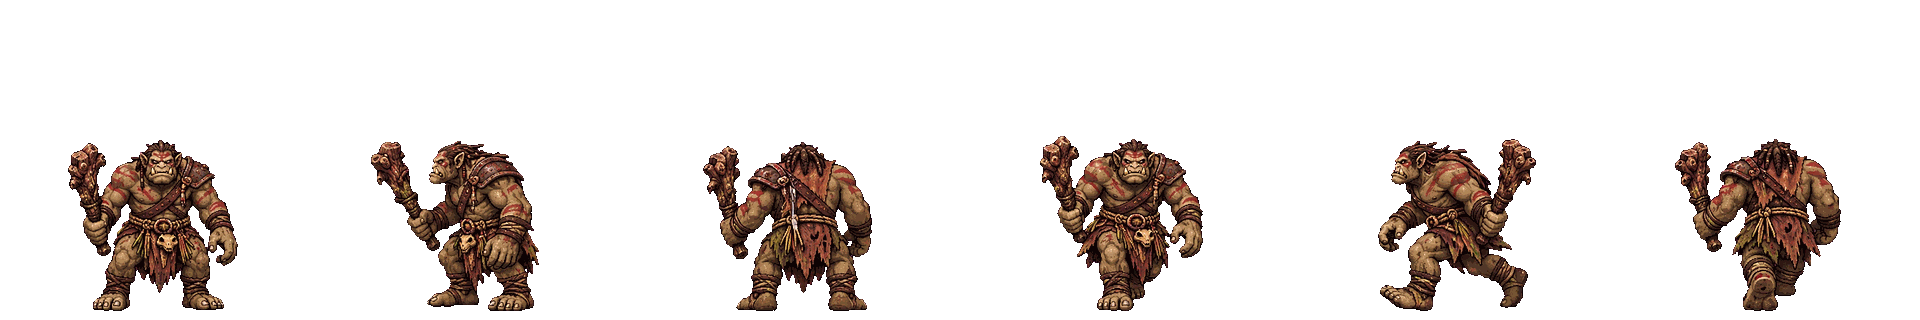
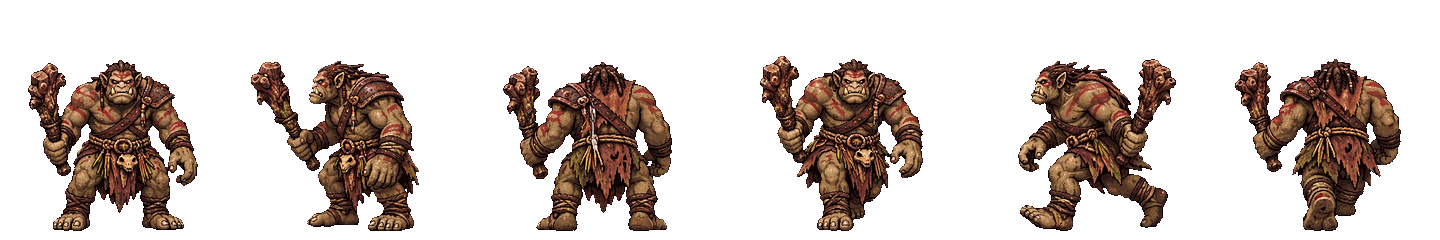
Corrige o jogo fechando no Pântano do Kosaradius: arte do clã 5 vezes mais leve na memória
O jogo prepara a folha de todo monstro da arte nova ao abrir, e cada quadro fica na memória do celular. Os 12 do clã
tinham 32 quadros de 256–512 px cada (~156 MB) e o celular fechava o jogo.

- hdStep (textures.ts) guarda cada figura uma vez: quadros que repetem a mesma função de hd() apontam para ela.
- kosaradiusArt.ts devolve a mesma função para a mesma figura e deslocamento e usa poucas variações nos clipes
  (11 figuras por monstro, 14 no Rei).
- kosaradiusSprites.py: o quadro é o menor que cabe a figura com a folga do bote.

Os 12 passam a ~28 MB (medido no navegador com o código do jogo).

Claude-Session: https://claude.ai/code/session_017wBqbLW2E9gmPiXigBH63t

diff --git a/apps/client/src/art/proto/kosaradiusArt.ts b/apps/client/src/art/proto/kosaradiusArt.ts
@@ -52,14 +52,24 @@ async function loadOne(kind: MonsterKind, url: string): Promise<ClanArt> {
   img.src = url;
   await img.decode();
   const s = img.height;
-  const at = (i: number, o: Parameters<typeof figure>[3] = {}) => () => figure(img, s, i, o);
-  const breath = [0, 0.012, 0.024, 0.012];
-  const breathing = (i: number) => breath.map((b) => at(i, { breathe: b }));
+  // Cada figura (com o deslocamento) é uma função só, reaproveitada nos clipes: o jogo guarda cada uma uma vez na
+  // memória (`hdStep` em `textures.ts`). Com uma figura por quadro, os 12 do clã passavam de 150 MB e o celular fechava
+  // o jogo. Por isso os clipes usam poucas variações.
+  const made = new Map<string, () => HTMLCanvasElement>();
+  const at = (i: number, o: Parameters<typeof figure>[3] = {}) => {
+    const key = `${i}:${o.dx ?? 0}:${o.dy ?? 0}:${o.breathe ?? 0}`;
+    let job = made.get(key);
+    if (!job) made.set(key, job = () => figure(img, s, i, o));
+    return job;
+  };
+  // Fôlego: o corpo encolhe um pouco e volta.
+  const breathing = (i: number) => [at(i), at(i, { breathe: 0.02 }), at(i, { breathe: 0.02 }), at(i)];
   // A folha tem um passo por vista: entre um e outro, o corpo parado um pouco acima. Não espelha (a arma trocaria de mão).
+  // Quem anda só com a figura de andar (o Rei) sobe e desce com ela.
   const walkOnly = WALK_POSE_ONLY.has(kind);
   const steps = (still: number, walk: number) => {
-    const mid = walkOnly ? walk : still;
-    return [at(walk), at(mid, { dy: -3 }), at(walk, { dy: -1 }), at(mid, { dy: -3 })];
+    const mid = walkOnly ? at(walk, { dy: -3 }) : at(still);
+    return [at(walk), mid, at(walk), mid];
   };
   // Parte de cima do quadro ocupada pelo perfil parado (a barra de vida fica logo acima).
   const { ctx } = makeCanvas(s, s);
@@ -74,10 +84,10 @@ async function loadOne(kind: MonsterKind, url: string): Promise<ClanArt> {
     frames: () => [
       ...breathing(F.side),
       ...steps(F.side, F.sideWalk),
-      // Golpe: recua um pouco, avança com a passada e volta (o bote do sprite vem do jogo).
-      at(F.side, { dx: 4, dy: 1 }), at(F.sideWalk, { dx: -6 }), at(F.sideWalk, { dx: -8 }), at(F.side, { dx: -2 }),
-      // Especial: o corpo se ergue e volta, com o fôlego fundo.
-      at(F.side, { breathe: -0.02 }), at(F.side, { breathe: -0.035, dy: -2 }), at(F.side, { breathe: -0.035, dy: -2 }), at(F.side, { breathe: 0.02 }),
+      // Golpe: avança com a passada e volta (o bote do sprite vem do jogo).
+      at(F.side), at(F.sideWalk, { dx: -8 }), at(F.sideWalk, { dx: -8 }), at(F.side),
+      // Especial: o corpo se ergue e volta.
+      at(F.side), at(F.side, { breathe: -0.035, dy: -2 }), at(F.side, { breathe: -0.035, dy: -2 }), at(F.side),
       ...breathing(F.front),
       ...steps(F.front, F.frontWalk),
       ...breathing(F.back),

diff --git a/apps/client/src/art/textures.ts b/apps/client/src/art/textures.ts
@@ -138,20 +138,28 @@ export function createCreatureArt(scene: Phaser.Scene) {
 }
 
 /** Folha animada: cada quadro é refinado à parte (o contorno não vaza para o vizinho) e vira um quadro da textura. */
-/** Folha da arte nova sendo montada: os quadros já desenhados e o próximo. */
-const hdBuilds = new Map<string, { canvas: HTMLCanvasElement; ctx: CanvasRenderingContext2D; jobs: (() => HTMLCanvasElement)[]; next: number }>();
+/**
+ * Folha da arte nova sendo montada: as figuras distintas (`jobs`, cada função uma vez), a figura de cada quadro do clipe
+ * (`slot`) e a próxima a desenhar. Quadros repetidos apontam para a mesma figura: a memória da textura é a das figuras,
+ * não a dos quadros (no celular, folha grande demais fecha o jogo).
+ */
+const hdBuilds = new Map<string, {
+  canvas: HTMLCanvasElement; ctx: CanvasRenderingContext2D; jobs: (() => HTMLCanvasElement)[]; slot: number[]; next: number;
+}>();
 
 /** Quadros por linha da folha da arte nova (no máximo 4096 px de largura). */
 const hdColumns = (size: number, frames: number) => Math.max(1, Math.min(frames, Math.floor(4096 / size)));
 
-/** Desenha o próximo quadro de um monstro da arte nova; com a folha completa, vira textura. Devolve se está pronta. */
+/** Desenha a próxima figura de um monstro da arte nova; com a folha completa, vira textura. Devolve se está pronta. */
 function hdStep(scene: Phaser.Scene, key: string, anim: MonsterAnim): boolean {
   if (scene.textures.exists(key)) return true;
   let b = hdBuilds.get(key);
   if (!b) {
-    const jobs = anim.hd!();
+    const frames = anim.hd!();
+    const jobs = [...new Set(frames)];
+    const slot = frames.map((job) => jobs.indexOf(job));
     const cols = hdColumns(anim.size, jobs.length);
-    b = { ...makeCanvas(anim.size * cols, anim.size * Math.ceil(jobs.length / cols)), jobs, next: 0 };
+    b = { ...makeCanvas(anim.size * cols, anim.size * Math.ceil(jobs.length / cols)), jobs, slot, next: 0 };
     hdBuilds.set(key, b);
   }
   // Em grade: textura mais larga que 4096 px fica preta no celular.
@@ -160,7 +168,7 @@ function hdStep(scene: Phaser.Scene, key: string, anim: MonsterAnim): boolean {
   b.ctx.drawImage(b.jobs[b.next](), ...cell(b.next));
   if (++b.next < b.jobs.length) return false;
   const texture = scene.textures.addCanvas(key, b.canvas)!;
-  for (let i = 0; i < b.jobs.length; i++) texture.add(i, 0, ...cell(i), anim.size, anim.size);
+  b.slot.forEach((slot, i) => texture.add(i, 0, ...cell(slot), anim.size, anim.size));
   addClips(scene, key, anim);
   hdBuilds.delete(key);
   return true;

diff --git a/apps/client/scripts/kosaradiusSprites.py b/apps/client/scripts/kosaradiusSprites.py
@@ -30,20 +30,21 @@ SRC = ROOT / "docs/arte/pantano-do-kosaradius"
 DST = ROOT / "apps/client/src/art/proto/kosaradius"
 
 # Altura da figura de perfil parada (do topo da arma ou do chapéu aos pés), em px de arte nova (128 por tile; o herói
-# tem ~120) e o lado do quadro. A lança e o arco sobem acima da cabeça: a altura conta com eles.
+# tem ~120) e o lado do quadro: o menor que cabe a figura mais larga com a folga do bote e do especial (o jogo guarda
+# cada quadro na memória do celular, e quadro vazio também pesa). A lança e o arco sobem acima da cabeça: a altura conta com eles.
 SIZES = {
-    "orcScout": (108, 256),
-    "orcGrunt": (128, 256),
-    "orcSpearman": (150, 256),
-    "orcArcher": (122, 256),
-    "orcShaman": (130, 256),
-    "orcBerserker": (132, 256),
-    "orcCaptain": (150, 256),
-    "ogreYoung": (170, 320),
-    "ogreBruiser": (215, 384),
-    "ogreShaman": (215, 384),
-    "orcWarlord": (160, 320),
-    "ogreKing": (300, 512),
+    "orcScout": (108, 144),
+    "orcGrunt": (128, 160),
+    "orcSpearman": (150, 176),
+    "orcArcher": (122, 160),
+    "orcShaman": (130, 176),
+    "orcBerserker": (132, 192),
+    "orcCaptain": (150, 192),
+    "ogreYoung": (170, 240),
+    "ogreBruiser": (215, 288),
+    "ogreShaman": (215, 256),
+    "orcWarlord": (160, 192),
+    "ogreKing": (300, 384),
 }
 
 # Figuras da folha de giro que vão para o jogo: frente, perfil e costas, parado (0, 2, 4) e andando (6, 8, 10).
